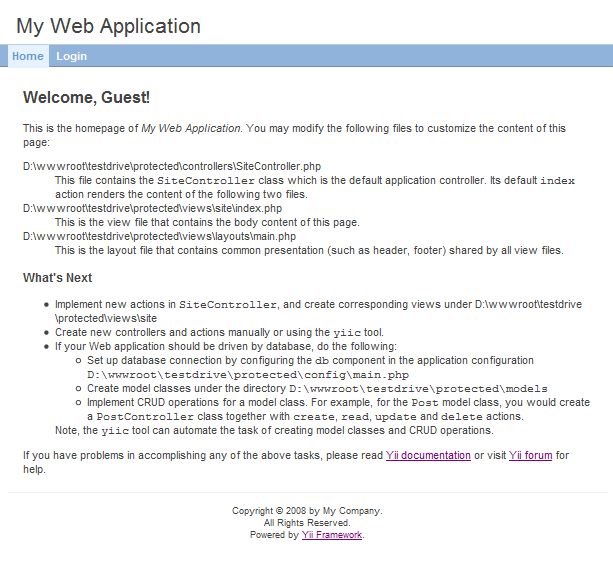
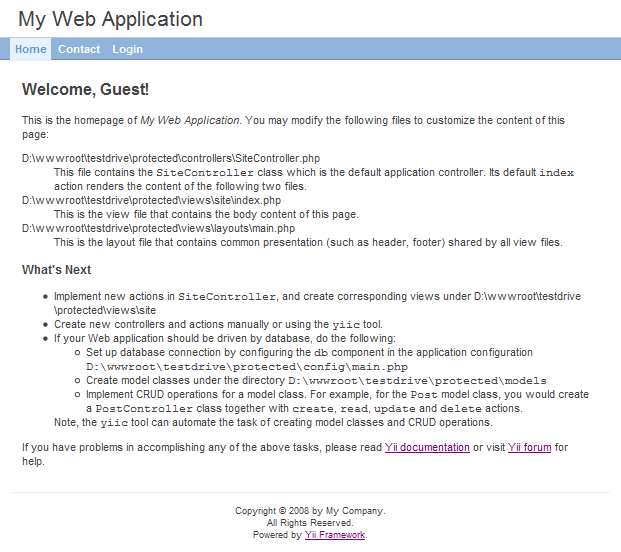
merge from 1.0

diff --git a/framework/web/CUrlManager.php b/framework/web/CUrlManager.php
@@ -185,14 +185,30 @@ class CUrlManager extends CApplicationComponent
 		{
 			$url=rtrim($this->getBaseUrl().'/'.$route,'/');
 			foreach($params as $key=>$value)
-				$url.='/'.urlencode($key).'/'.urlencode($value);
+			{
+				if(is_array($value))
+				{
+					foreach($value as $v)
+						$url.='/'.urlencode($key).'[]/'.urlencode($v);
+				}
+				else
+					$url.='/'.urlencode($key).'/'.urlencode($value);
+			}
 			return $url.$this->urlSuffix;
 		}
 		else
 		{
 			$pairs=$route!==''?array($this->routeVar.'='.$route):array();
 			foreach($params as $key=>$value)
-				$pairs[]=urlencode($key).'='.urlencode($value);
+			{
+				if(is_array($value))
+				{
+					foreach($value as $v)
+						$pairs[]=urlencode($key).'[]='.urlencode($v);
+				}
+				else
+					$pairs[]=urlencode($key).'='.urlencode($value);
+			}
 
 			$baseUrl=$this->getBaseUrl();
 			if(!$this->showScriptName)
@@ -267,7 +283,14 @@ class CUrlManager extends CApplicationComponent
 		$segs=explode('/',$pathInfo.'/');
 		$n=count($segs);
 		for($i=2;$i<$n-1;$i+=2)
-			$_GET[urldecode($segs[$i])]=urldecode($segs[$i+1]);
+		{
+			$key=urldecode($segs[$i]);
+			$value=urldecode($segs[$i+1]);
+			if(($pos=strpos($key,'[]'))!==false)
+				$_GET[substr($key,0,$pos)][]=$value;
+			else
+				$_GET[$key]=$value;
+		}
 		return $segs[0].'/'.$segs[1];
 	}
 
@@ -413,7 +436,15 @@ class CUrlRule extends CComponent
 			if(isset($this->params[$key]))
 				$tr["<$key>"]=$value;
 			else
-				$rest[]=urlencode($key).$sep.urlencode($value);
+			{
+				if(is_array($value))
+				{
+					foreach($value as $v)
+						$rest[]=urlencode($key).'[]'.$sep.urlencode($v);
+				}
+				else
+					$rest[]=urlencode($key).$sep.urlencode($value);
+			}
 		}
 		$url=strtr($this->template,$tr);
 		if($rest===array())
@@ -459,7 +490,14 @@ class CUrlRule extends CComponent
 				$segs=explode('/',ltrim(substr($pathInfo,strlen($matches[0])),'/'));
 				$n=count($segs);
 				for($i=0;$i<$n-1;$i+=2)
-					$_GET[urldecode($segs[$i])]=urldecode($segs[$i+1]);
+				{
+					$key=urldecode($segs[$i]);
+					$value=urldecode($segs[$i+1]);
+					if(($pos=strpos($key,'[]'))!==false)
+						$_GET[substr($key,0,$pos)][]=$value;
+					else
+						$_GET[$key]=$value;
+				}
 			}
 			return $this->route;
 		}

diff --git a/framework/cli/views/webapp/protected/views/site/contact.php b/framework/cli/views/webapp/protected/views/site/contact.php
@@ -1,0 +1,55 @@
+<?php $this->pageTitle=Yii::app()->name . ' - Contact Us'; ?>
+
+<h1>Contact Us</h1>
+
+<?php if(Yii::app()->user->hasFlash('contact')): ?>
+<div class="confirmation">
+<?php echo Yii::app()->user->getFlash('contact'); ?>
+</div>
+<?php else: ?>
+
+<p>
+If you have business inquries or other questions, please fill out the following form to contact us. Thank you.
+</p>
+
+<div class="yiiForm">
+<?php echo CHtml::form(); ?>
+
+<?php echo CHtml::errorSummary($contact); ?>
+
+<div class="simple">
+<?php echo CHtml::activeLabel($contact,'name'); ?>
+<?php echo CHtml::activeTextField($contact,'name'); ?>
+</div>
+<div class="simple">
+<?php echo CHtml::activeLabel($contact,'email'); ?>
+<?php echo CHtml::activeTextField($contact,'email'); ?>
+</div>
+<div class="simple">
+<?php echo CHtml::activeLabel($contact,'subject'); ?>
+<?php echo CHtml::activeTextField($contact,'subject',array('size'=>60,'maxlength'=>128)); ?>
+</div>
+<div class="simple">
+<?php echo CHtml::activeLabel($contact,'body'); ?>
+<?php echo CHtml::activeTextArea($contact,'body',array('rows'=>6, 'cols'=>50)); ?>
+</div>
+
+<?php if(extension_loaded('gd')): ?>
+<div class="simple">
+	<?php echo CHtml::activeLabel($contact,'verifyCode'); ?>
+	<div>
+	<?php $this->widget('CCaptcha'); ?>
+	<?php echo CHtml::activeTextField($contact,'verifyCode'); ?>
+	</div>
+	<p class="hint">Please enter the letters as they are shown in the image above.
+	<br/>Letters are not case-sensitive.</p>
+</div>
+<?php endif; ?>
+
+<div class="action">
+<?php echo CHtml::submitButton('Submit'); ?>
+</div>
+
+</form>
+</div><!-- yiiForm -->
+<?php endif; ?>

diff --git a/framework/cli/views/webapp/protected/controllers/SiteController.php b/framework/cli/views/webapp/protected/controllers/SiteController.php
@@ -9,6 +9,7 @@ class SiteController extends CController
 	{
 		return array(
 			// captcha action renders the CAPTCHA image
+			// this is used by the contact page
 			'captcha'=>array(
 				'class'=>'CCaptchaAction',
 				'backColor'=>0xEBF4FB,
@@ -28,7 +29,27 @@ class SiteController extends CController
 	}
 
 	/**
-	 * Displays a login form to login a user.
+	 * Displays the contact page
+	 */
+	public function actionContact()
+	{
+		$contact=new ContactForm;
+		if(isset($_POST['ContactForm']))
+		{
+			$contact->attributes=$_POST['ContactForm'];
+			if($contact->validate())
+			{
+				$headers="From: {$contact->email}\r\nReply-To: {$contact->email}";
+				mail(Yii::app()->params['adminEmail'],$contact->subject,$contact->body,$headers);
+				Yii::app()->user->setFlash('contact','Thank you for contacting us. We will respond to you as soon as possible.');
+				$this->refresh();
+			}
+		}
+		$this->render('contact',array('contact'=>$contact));
+	}
+
+	/**
+	 * Displays the login page
 	 */
 	public function actionLogin()
 	{

diff --git a/framework/cli/views/webapp/protected/models/ContactForm.php b/framework/cli/views/webapp/protected/models/ContactForm.php
@@ -1,0 +1,42 @@
+<?php
+
+/**
+ * ContactForm class.
+ * ContactForm is the data structure for keeping
+ * contact form data. It is used by the 'contact' action of 'SiteController'.
+ */
+class ContactForm extends CFormModel
+{
+	public $name;
+	public $email;
+	public $subject;
+	public $body;
+	public $verifyCode;
+
+	/**
+	 * Declares the validation rules.
+	 */
+	public function rules()
+	{
+		return array(
+			// name, email, subject and body are required
+			array('name, email, subject, body', 'required'),
+			// email has to be a valid email address
+			array('email', 'email'),
+			// verifyCode needs to be entered correctly
+			array('verifyCode', 'captcha', 'allowEmpty'=>!extension_loaded('gd')),
+		);
+	}
+
+	/**
+	 * Declares customized attribute labels.
+	 * If not declared here, an attribute would have a label that is
+	 * the same as its name with the first letter in upper case.
+	 */
+	public function attributeLabels()
+	{
+		return array(
+			'verifyCode'=>'Verification Code',
+		);
+	}
+}

diff --git a/framework/cli/views/webapp/protected/models/LoginForm.php b/framework/cli/views/webapp/protected/models/LoginForm.php
@@ -10,7 +10,6 @@ class LoginForm extends CFormModel
 	public $username;
 	public $password;
 	public $rememberMe;
-	public $verifyCode;
 
 	/**
 	 * Declares the validation rules.
@@ -20,21 +19,10 @@ class LoginForm extends CFormModel
 	public function rules()
 	{
 		return array(
+			// username and password are required
 			array('username, password', 'required'),
-			array('verifyCode', 'captcha', 'allowEmpty'=>!extension_loaded('gd')),
+			// password needs to be authenticated
 			array('password', 'authenticate'),
-		);
-	}
-
-	/**
-	 * Declares attribute labels.
-	 * If not declared here, an attribute would have a label
-	 * the same as its name with the first letter in upper case.
-	 */
-	public function attributeLabels()
-	{
-		return array(
-			'verifyCode'=>'Verification Code',
 		);
 	}
 

diff --git a/framework/utils/CMarkdownParser.php b/framework/utils/CMarkdownParser.php
@@ -50,6 +50,23 @@ class CMarkdownParser extends MarkdownExtra_Parser
 	public $highlightCssClass='hl-code';
 
 	/**
+	 * Transforms the content and purifies the result.
+	 * This method calls the transform() method to convert
+	 * markdown content into HTML content. It then
+	 * uses {@link CHtmlPurifier} to purify the HTML content
+	 * to avoid XSS attacks.
+	 * @param string the markdown content
+	 * @return string the purified HTML content
+	 * @since 1.0.1
+	 */
+	public function safeTransform($content)
+	{
+		$content=$this->transform($content);
+		$purifier=new CHtmlPurifier;
+		return $purifier->purify($content);
+	}
+
+	/**
 	 * @return string the default CSS file that is used to highlight code blocks.
 	 */
 	public function getDefaultCssFile()

diff --git a/framework/cli/views/webapp/protected/views/site/login.php b/framework/cli/views/webapp/protected/views/site/login.php
@@ -1,3 +1,5 @@
+<?php $this->pageTitle=Yii::app()->name . ' - Login'; ?>
+
 <h1>Login</h1>
 
 <div class="yiiForm">
@@ -17,19 +19,6 @@
 Hint: You may login with <tt>demo/demo</tt> or <tt>admin/admin</tt>.
 </p>
 </div>
-
-<?php if(extension_loaded('gd')): ?>
-<div class="simple">
-<?php echo CHtml::activeLabel($form,'verifyCode'); ?>
-	<div>
-	<?php $this->widget('CCaptcha'); ?>
-	<br/>
-	<?php echo CHtml::activeTextField($form,'verifyCode'); ?>
-	</div>
-	<p class="hint">Please enter the letters as they are shown in the image above.
-	<br/>Letters are not case-sensitive.</p>
-</div>
-<?php endif; ?>
 
 <div class="action">
 <?php echo CHtml::activeCheckBox($form,'rememberMe'); ?> Remember me next time<br/>

diff --git a/framework/cli/views/webapp/protected/views/layouts/main.php b/framework/cli/views/webapp/protected/views/layouts/main.php
@@ -17,6 +17,7 @@
 <?php $this->widget('application.components.MainMenu',array(
 	'items'=>array(
 		array('label'=>'Home', 'url'=>array('site/index')),
+		array('label'=>'Contact', 'url'=>array('site/contact')),
 		array('label'=>'Login', 'url'=>array('site/login'), 'visible'=>Yii::app()->user->isGuest),
 		array('label'=>'Logout', 'url'=>array('site/logout'), 'visible'=>!Yii::app()->user->isGuest)
 	),

diff --git a/framework/cli/views/webapp/protected/views/site/index.php b/framework/cli/views/webapp/protected/views/site/index.php
@@ -1,6 +1,8 @@
-<h2>
+<?php $this->pageTitle=Yii::app()->name; ?>
+
+<h1>
 	Welcome, <?php echo Yii::app()->user->name; ?>!
-</h2>
+</h1>
 <p>
 This is the homepage of <em><?php echo Yii::app()->name; ?></em>. You may modify the following files to customize the content of this page:
 </p>

diff --git a/framework/cli/views/shell/crud/list.php b/framework/cli/views/shell/crud/list.php
@@ -6,6 +6,8 @@
 </div>
 
 <?php echo "<?php \$this->widget('CLinkPager',array('pages'=>\$pages)); ?>" ?>
+
+
 <?php echo "<?php foreach(\${$modelVar}List as \$n=>\$model): ?>\n"; ?>
 <div class="item">
 <?php echo "<?php echo CHtml::encode(\$model->getAttributeLabel('{$ID}')); ?>"; ?>:

diff --git a/framework/cli/views/webapp/protected/config/main.php b/framework/cli/views/webapp/protected/config/main.php
@@ -40,4 +40,11 @@ return array(
 		),
 		*/
 	),
+
+	// application-level parameters that can be accessed
+	// using Yii::app()->params['paramName']
+	'params'=>array(
+		// this is used in contact page
+		'adminEmail'=>'webmaster@example.com',
+	),
 );
